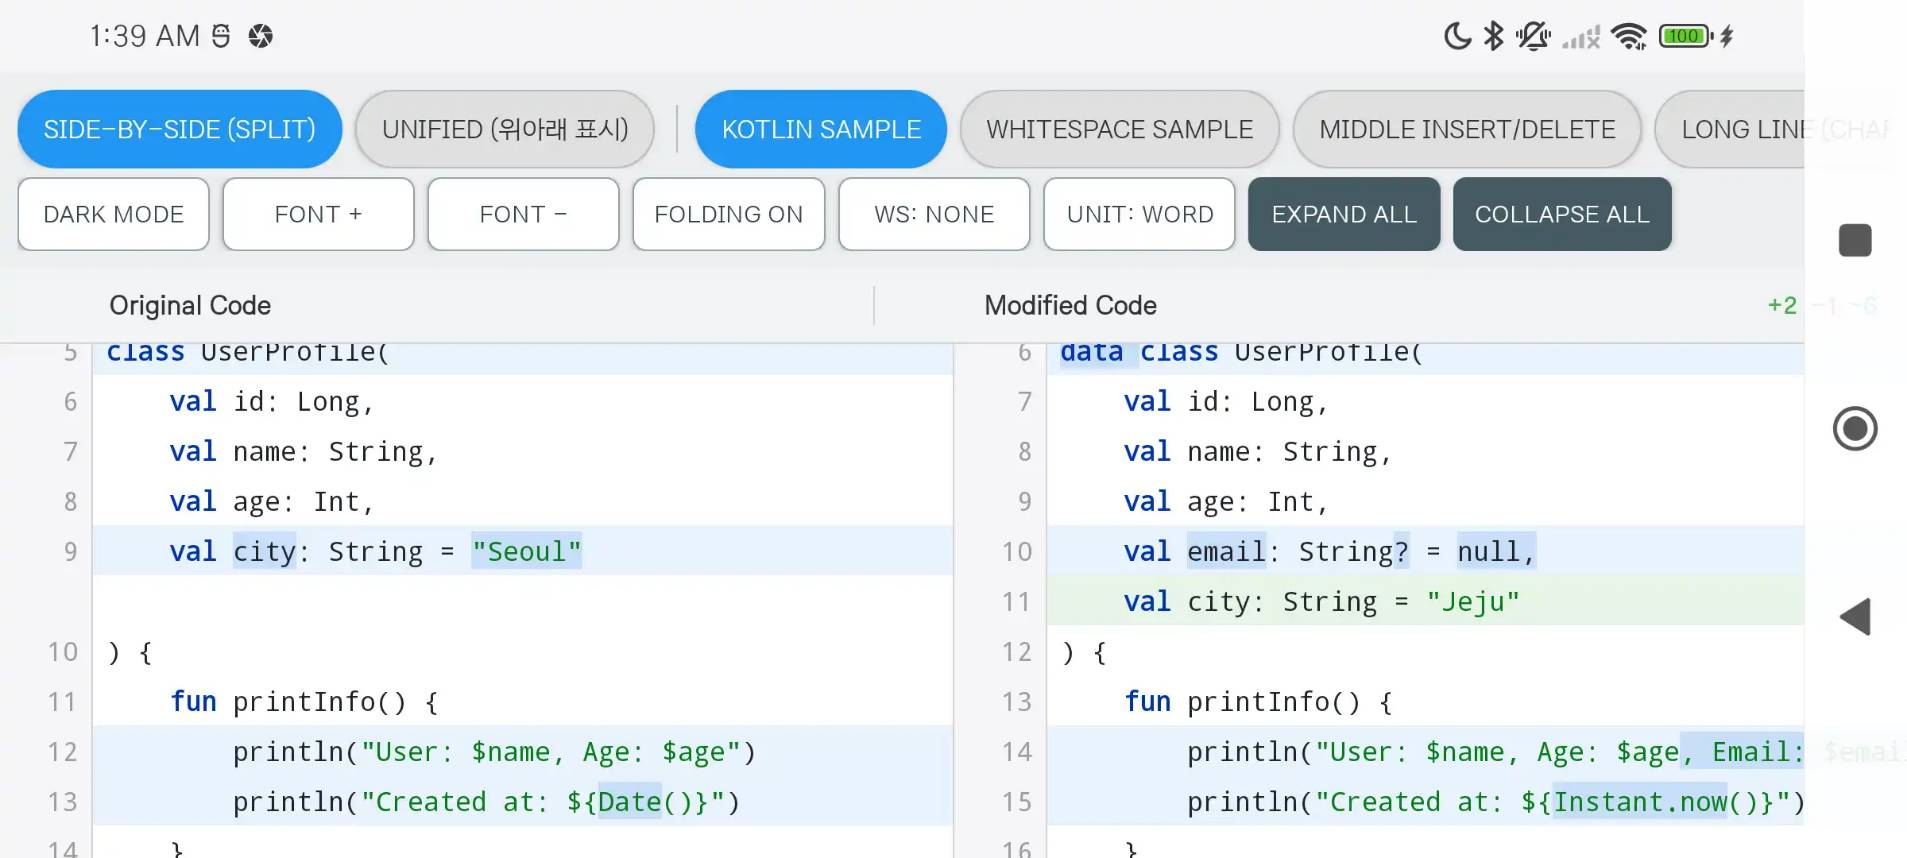
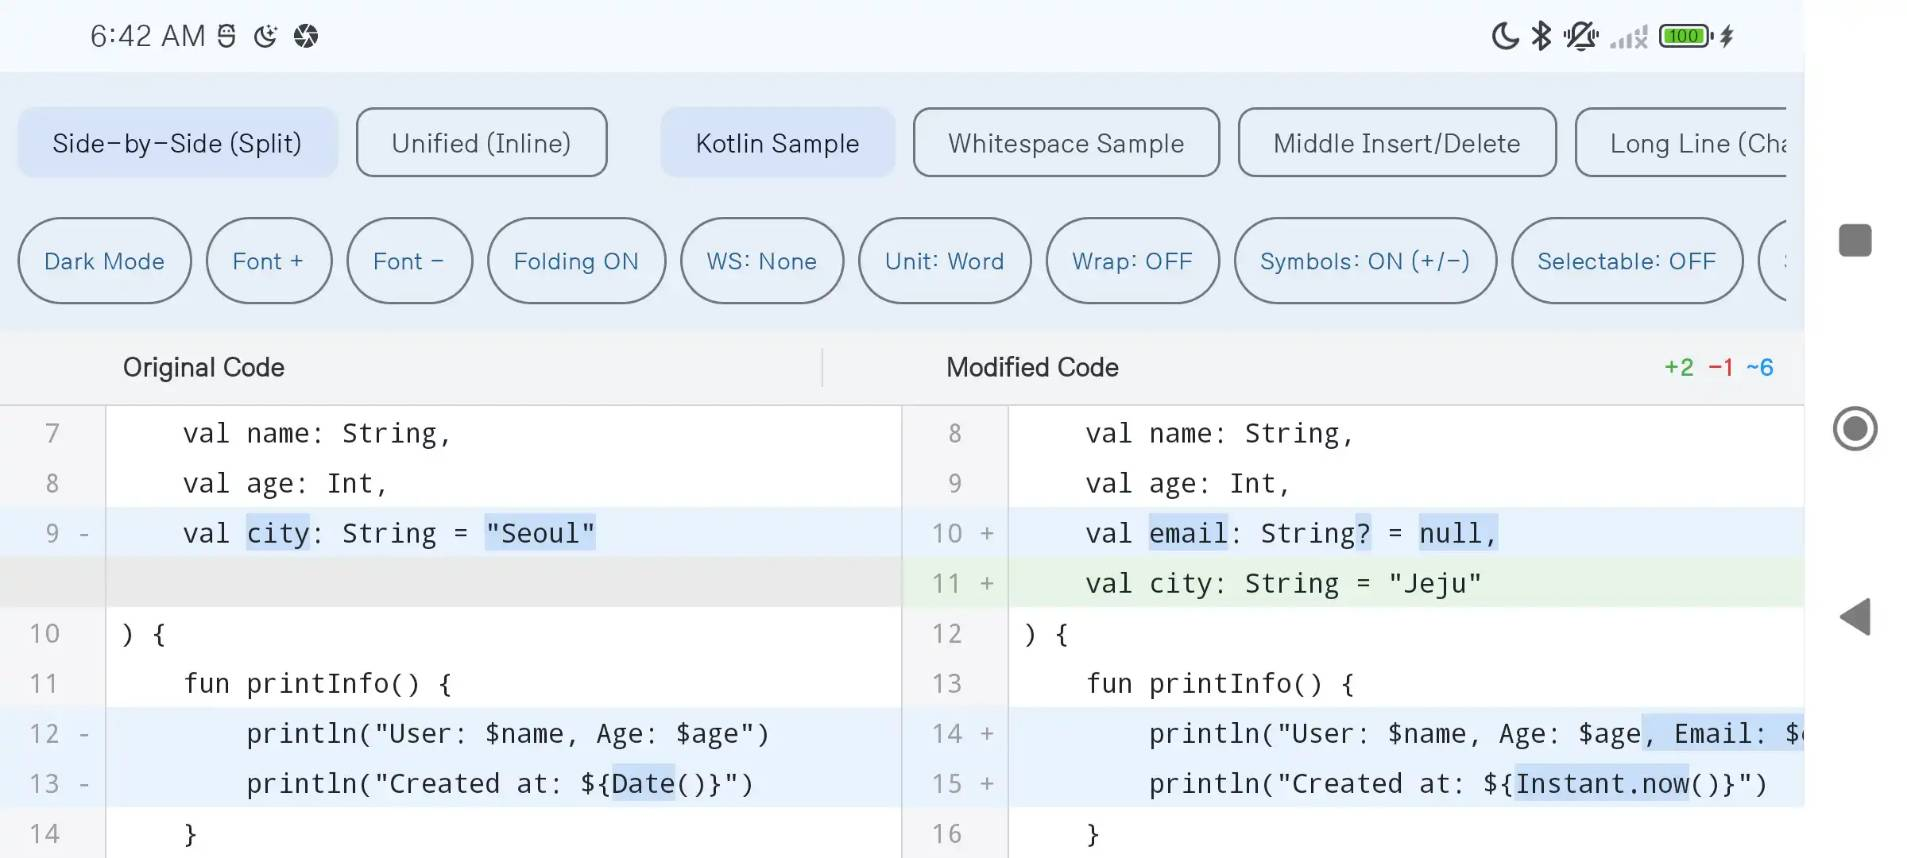
하드코딩된 한글 문자열 영어로

diff --git a/app/src/main/java/com/mdiwebma/diffview_demo/MainActivity.kt b/app/src/main/java/com/mdiwebma/diffview_demo/MainActivity.kt
@@ -14,7 +14,9 @@ import androidx.appcompat.app.AppCompatActivity
 import androidx.lifecycle.lifecycleScope
 import com.mdiwebma.diffview.DiffView
 import com.mdiwebma.diffview.KotlinSyntaxHighlighter
+import com.mdiwebma.diffview.model.DiffGranularity
 import com.mdiwebma.diffview.model.DiffMode
+import com.mdiwebma.diffview.model.WhitespaceIgnoreMode
 import kotlinx.coroutines.Dispatchers
 import kotlinx.coroutines.launch
 import kotlinx.coroutines.withContext
@@ -69,17 +71,20 @@ class MainActivity : AppCompatActivity() {
         progressBar = findViewById(R.id.progressBar)
         diffView = findViewById(R.id.diffview)
 
-        // DiffView 기본 설정
+        // Basic DiffView configuration
         diffView.setDiffMode(DiffMode.SIDE_BY_SIDE)
-        diffView.setTextSize(12.5f)
         diffView.setFoldingEnabled(enabled = true, contextLines = 3, threshold = 8)
-        diffView.setSyntaxHighlighter(KotlinSyntaxHighlighter())
+        diffView.setWhitespaceIgnoreMode(WhitespaceIgnoreMode.NONE)
+        diffView.setDiffGranularity(DiffGranularity.WORD)
         diffView.setLineWrap(false)
+        diffView.setTextSize(13f)
+        diffView.setSyntaxHighlighter(KotlinSyntaxHighlighter())
         //diffView.setShowDiffSymbols(false)
         //diffView.setGutterWidthDp(55)
         //diffView.setTextIsSelectable(true)
 
-        // 초기 샘플 코드 표시
+        // Show initial sample code
+        diffView.setHeaderTitles("MainActivity.kt (Old)", "MainActivity.kt (New)")
         diffView.setContent(original = SAMPLE_ORIGINAL, modified = SAMPLE_MODIFIED)
 //        diffView.expandAll()
 
@@ -124,11 +129,11 @@ class MainActivity : AppCompatActivity() {
     private fun fetchCommit(rawUrl: String) {
         val parsed = parseCommitUrl(rawUrl)
         if (parsed == null) {
-            Toast.makeText(this, "올바른 GitHub 커밋 URL을 입력하세요.", Toast.LENGTH_SHORT).show()
+            Toast.makeText(this, "Please enter a valid GitHub commit URL.", Toast.LENGTH_SHORT).show()
             return
         }
 
-        setLoading(true, "커밋 정보 가져오는 중...")
+        setLoading(true, "Fetching commit info...")
 
         lifecycleScope.launch {
             try {
@@ -173,24 +178,24 @@ class MainActivity : AppCompatActivity() {
                 selectedFileIndex = 0
 
                 btnSelectFile.isEnabled = files.isNotEmpty()
-                setLoading(false, "커밋 로드 완료 (${files.size}개 파일). 파일 선택을 눌러주세요.")
+                setLoading(false, "Commit loaded (${files.size} files). Click 'Select File'.")
 
                 if (files.isNotEmpty()) {
                     showFileSelectionDialog()
                 } else {
-                    Toast.makeText(this@MainActivity, "커밋에 변경된 파일이 없습니다.", Toast.LENGTH_SHORT).show()
+                    Toast.makeText(this@MainActivity, "No changed files in this commit.", Toast.LENGTH_SHORT).show()
                 }
             } catch (e: Exception) {
                 e.printStackTrace()
-                setLoading(false, "오류: ${e.message}")
-                Toast.makeText(this@MainActivity, "커밋 가져오기 실패: ${e.message}", Toast.LENGTH_LONG).show()
+                setLoading(false, "Error: ${e.message}")
+                Toast.makeText(this@MainActivity, "Failed to fetch commit: ${e.message}", Toast.LENGTH_LONG).show()
             }
         }
     }
 
     private fun showFileSelectionDialog() {
         if (commitFiles.isEmpty()) {
-            Toast.makeText(this, "선택할 파일이 없습니다.", Toast.LENGTH_SHORT).show()
+            Toast.makeText(this, "No files available to select.", Toast.LENGTH_SHORT).show()
             return
         }
 
@@ -207,7 +212,7 @@ class MainActivity : AppCompatActivity() {
         }.toTypedArray()
 
         AlertDialog.Builder(this)
-            .setTitle("파일 선택 (${commitFiles.size}개)")
+            .setTitle("Select File (${commitFiles.size})")
             .setSingleChoiceItems(fileNames, tempSelectedIndex) { _, which ->
                 tempSelectedIndex = which
             }
@@ -217,7 +222,7 @@ class MainActivity : AppCompatActivity() {
                 loadDiffForFile(selectedFile)
                 dialog.dismiss()
             }
-            .setNegativeButton("취소", null)
+            .setNegativeButton("Cancel", null)
             .show()
     }
 
@@ -225,7 +230,7 @@ class MainActivity : AppCompatActivity() {
         val commitInfo = currentCommitInfo ?: return
         val parentSha = currentParentSha
 
-        setLoading(true, "'${fileInfo.filename}' 내용 로드 중...")
+        setLoading(true, "Loading '${fileInfo.filename}'...")
 
         lifecycleScope.launch {
             try {
@@ -235,7 +240,7 @@ class MainActivity : AppCompatActivity() {
                     val oldCacheFile = File(contentsDir, "${key}_old.txt")
                     val newCacheFile = File(contentsDir, "${key}_new.txt")
 
-                    // 1. Modified(신규) 내용 캐시 및 로드
+                    // 1. Cache and load Modified (new) content
                     val newContent = if (fileInfo.status == "removed") {
                         ""
                     } else if (newCacheFile.exists() && newCacheFile.length() > 0) {
@@ -248,7 +253,7 @@ class MainActivity : AppCompatActivity() {
                         fetched
                     }
 
-                    // 2. Original(이전) 내용 캐시 및 로드
+                    // 2. Cache and load Original (old) content
                     val oldContent = if (fileInfo.status == "added" || parentSha == null) {
                         ""
                     } else if (oldCacheFile.exists() && oldCacheFile.length() > 0) {
@@ -271,11 +276,11 @@ class MainActivity : AppCompatActivity() {
                 diffView.setSyntaxHighlighter(com.mdiwebma.diffview.SyntaxHighlighter.forFileName(fileInfo.filename))
                 diffView.setContent(original = origText, modified = modText)
                 //diffView.expandAll()
-                setLoading(false, "선택됨: ${fileInfo.filename}")
+                setLoading(false, "Selected: ${fileInfo.filename}")
             } catch (e: Exception) {
                 e.printStackTrace()
-                setLoading(false, "파일 로드 오류: ${e.message}")
-                Toast.makeText(this@MainActivity, "파일 로드 실패: ${e.message}", Toast.LENGTH_LONG).show()
+                setLoading(false, "File load error: ${e.message}")
+                Toast.makeText(this@MainActivity, "Failed to load file: ${e.message}", Toast.LENGTH_LONG).show()
             }
         }
     }

diff --git a/app/src/main/java/com/mdiwebma/diffview_demo/DemoActivity.kt b/app/src/main/java/com/mdiwebma/diffview_demo/DemoActivity.kt
@@ -20,7 +20,7 @@ import com.mdiwebma.diffview.model.DiffGranularity
 import com.mdiwebma.diffview.model.DiffMode
 
 /**
- * Jetpack Compose를 사용하지 않는 순수 Android View 기반 DiffView 데모 액티비티.
+ * Android View based DiffView demo activity (without Jetpack Compose).
  */
 class DemoActivity : ComponentActivity() {
 
@@ -76,7 +76,7 @@ class DemoActivity : ComponentActivity() {
             insets
         }
 
-        // --- 상단 컨트롤 패널 ---
+        // --- Top Control Panel ---
         val controlContainer = LinearLayout(this).apply {
             layoutParams = LinearLayout.LayoutParams(
                 ViewGroup.LayoutParams.MATCH_PARENT,
@@ -106,7 +106,7 @@ class DemoActivity : ComponentActivity() {
             diffView.setDiffMode(DiffMode.SIDE_BY_SIDE)
             updateModeButtons()
         }
-        modeUnifiedButton = createPillButton("Unified (위아래 표시)", isSelected = false) {
+        modeUnifiedButton = createPillButton("Unified (Inline)", isSelected = false) {
             currentMode = DiffMode.UNIFIED
             diffView.setDiffMode(DiffMode.UNIFIED)
             updateModeButtons()

diff --git a/app/src/main/java/com/mdiwebma/diffview_demo/ComposeDemoActivity.kt b/app/src/main/java/com/mdiwebma/diffview_demo/ComposeDemoActivity.kt
@@ -116,7 +116,7 @@ fun DiffDemoScreen(
                             diffMode = DiffMode.UNIFIED
                             diffViewInstance?.setDiffMode(DiffMode.UNIFIED)
                         },
-                        label = { Text("Unified (위아래 표시)", fontSize = 12.sp) }
+                        label = { Text("Unified (Inline)", fontSize = 12.sp) }
                     )
 
                     Spacer(modifier = Modifier.padding(horizontal = 4.dp))

diff --git a/README.md b/README.md
@@ -9,7 +9,7 @@ Android Studio Diff Editor 스타일의 **Side-by-Side (Split) & Unified DiffVie
 
 ## 🌟 주요 기능
 0. Powered by A.I 
-   - 대부분의 코드는 **Gemini 3.7 Flash** 로 생성했습니다. 문제가 있다면 코드를 clone에서 A.I를 통해서 개선하세요. 
+   - 대부분의 코드는 **Gemini 3.7 Flash** 로 생성했습니다. 문제가 있다면 코드를 clone에서 A.I를 통해서 개선하세요. 이 문서의 초기 버전도 A.I로 작성됬습니다. 코드의 많은 부분은 충분한 코드 리뷰 없이 개발자 테스트만 거치고 commit했으므로 사용 적에 따라 테스트가 더 필요할 수있습니다.
 1. **2가지 Diff 모드 지원**:
    - **Side-by-Side (Split) 모드**: 좌(Original) / 우(Modified) 2열 나란히 표시하며 좌우 라인을 완벽 정렬.
    - **Unified (통합 위아래) 모드**: 하나의 뷰 안에서 변경 사항을 위아래 단일 열(`+` / `-`)로 표시.
@@ -51,7 +51,8 @@ Android Studio Diff Editor 스타일의 **Side-by-Side (Split) & Unified DiffVie
     - `setTextIsSelectable(true)`를 통해 코드 텍스트 드래그 선택 및 복사 기능 활성화/비활성화 (기본값: `false`).
 13. Screenshots
 ![Screenshot1](screenshot1.jpg)
-![Screenshot1](screenshot2.jpg)
+![Screenshot2](screenshot2.jpg)
+![Screenshot3](screenshot3.jpg)
 
 ---
 
